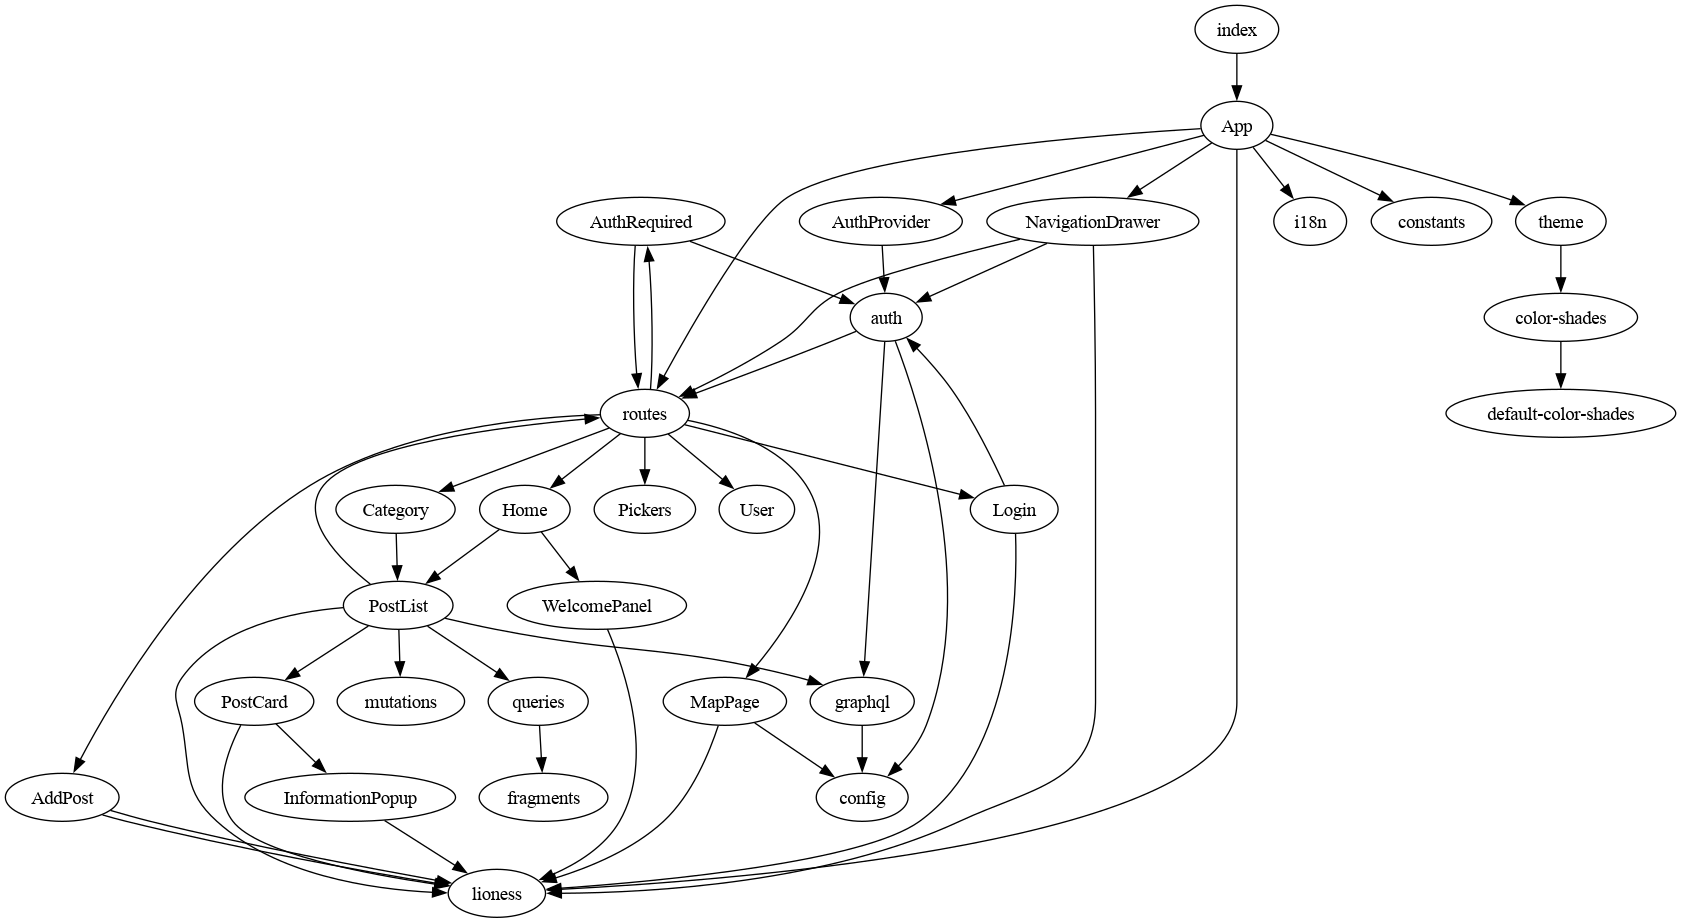
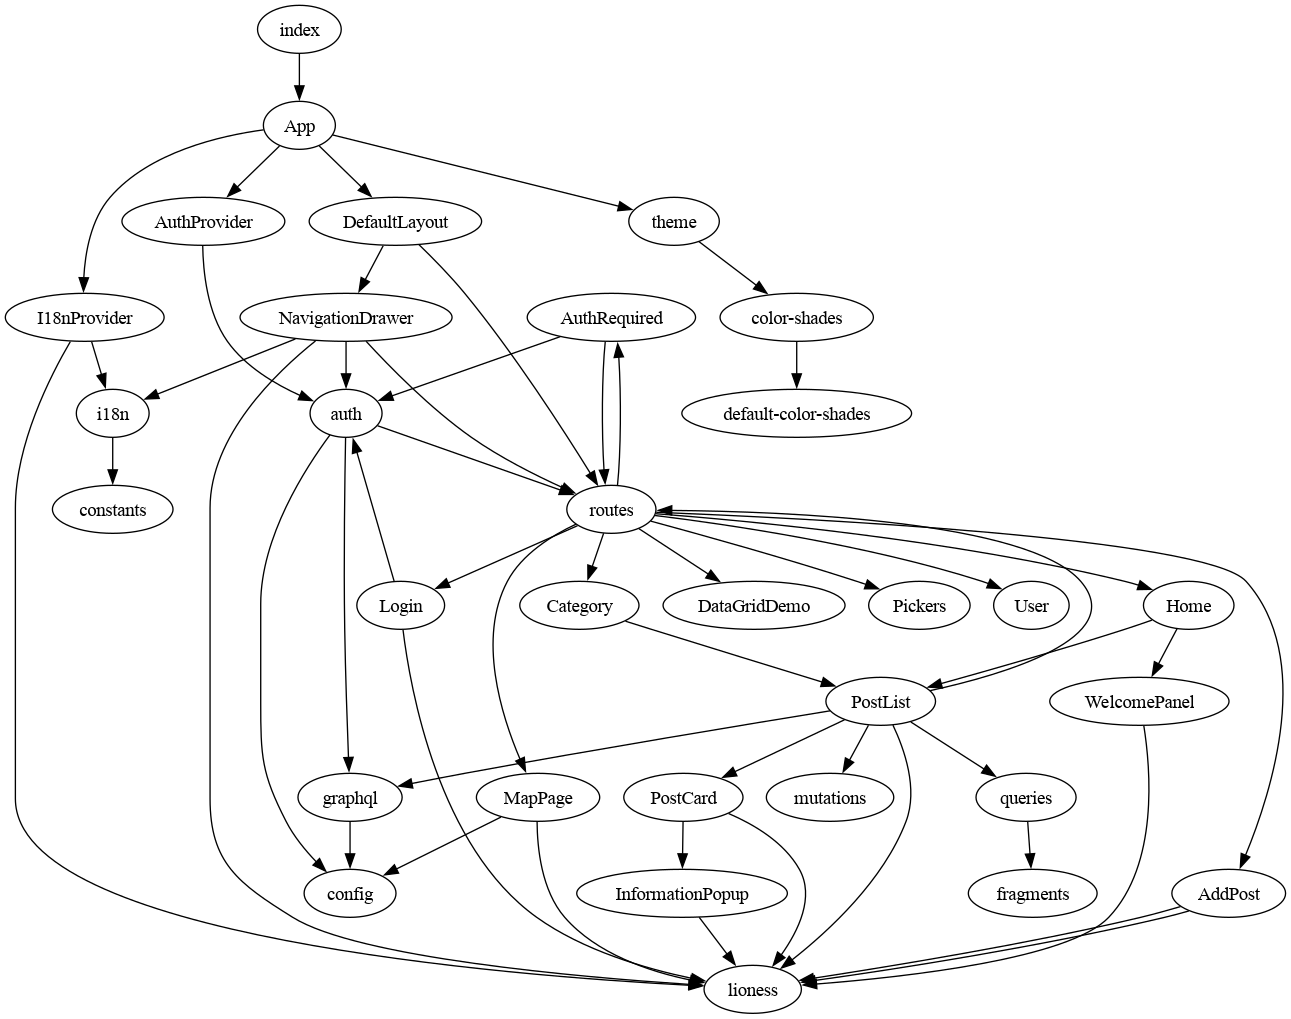
language switching in toolbar

diff --git a/front/src/App.jsx b/front/src/App.jsx
@@ -1,54 +1,20 @@
-import { useState } from 'react'
-
-/* Router and routes */
-import { Routes, Route, BrowserRouter as Router } from 'react-router-dom'
-import useRoutes from '@src/routes.jsx'
-import { AuthProvider } from '@src/utils/AuthProvider'
-
-/* i18n */
-import { selectBestLanguage } from './utils/i18n'
-import { createNodeGettextAdapter, LionessProvider } from '@src/lioness'
-import { LANGUAGES, DEFAULT_LANGUAGE } from './constants'
-import translations from './translations.json'
-
-import NavigationDrawer from '@comp/layout/NavigationDrawer'
-import { Box } from '@mui/material'
-
-// Theming
+import { I18nProvider } from '@src/utils/I18nProvider'
 import { ThemeProvider } from '@mui/material/styles'
-import theme from '@src/theme.js'
+import theme from '@src/theme'
+import { AuthProvider } from '@src/utils/AuthProvider'
+import { BrowserRouter as Router } from 'react-router-dom'
+import DefaultLayout from '@comp/layout/DefaultLayout'
 
 export default function App() {
-  const bestLanguage = selectBestLanguage(navigator.languages, Object.keys(LANGUAGES), DEFAULT_LANGUAGE)
-  const gettextAdapter = createNodeGettextAdapter()
-  const { routes } = useRoutes()
-  const [open, setOpen] = useState(false)
-  const toggleDrawer = (newState) => () => {
-    setOpen(newState)
-  }
-
   return (
-    <LionessProvider
-      adapter={gettextAdapter}
-      messages={translations}
-      locale={bestLanguage}
-    >
+    <I18nProvider>
       <ThemeProvider theme={theme}>
         <AuthProvider>
           <Router>
-            <div className="app">
-              <Box className="container">
-                <NavigationDrawer open={open} toggleDrawer={toggleDrawer} />
-                <Routes>
-                  {routes.map((route, index) => (
-                    <Route key={index} path={route.path} element={route.element} />
-                  ))}
-                </Routes>
-              </Box>
-            </div>
+            <DefaultLayout />
           </Router>
         </AuthProvider>
       </ThemeProvider>
-    </LionessProvider>
+    </I18nProvider>
   )
 }

diff --git a/front/src/components/layout/NavigationDrawer.jsx b/front/src/components/layout/NavigationDrawer.jsx
@@ -2,15 +2,17 @@ import { useState } from 'react'
 import { styled } from '@mui/material/styles'
 import {
   Box,
+  Button,
   ClickAwayListener,
-  Toolbar,
-  List,
   Divider,
   IconButton,
+  List,
   ListItem,
   ListItemButton,
   ListItemIcon,
   ListItemText,
+  Stack,
+  Toolbar,
   Typography,
 } from '@mui/material'
 import MuiDrawer from '@mui/material/Drawer'
@@ -23,6 +25,7 @@ import { NavLink } from 'react-router-dom'
 import { useTranslation } from '@src/lioness'
 import useRoutes from '@src/routes.jsx'
 import { useAuth, useAuthContext } from '@src/utils/auth'
+import { useI18n, languages } from '@src/utils/i18n'
 
 const drawerWidth = 240
 
@@ -83,10 +86,15 @@ const Drawer = styled(MuiDrawer, { shouldForwardProp: (prop) => prop !== 'open' 
 
 export default function NavigationDrawer() {
   const { t } = useTranslation()
-  const { routes } = useRoutes()
+  const { routes, UserRoute, LogoutRoute } = useRoutes()
   const { logout: logoutUser } = useAuthContext()
   const { logout } = useAuth()
+  const { locale: currentLocale, setLocale } = useI18n()
   const [open, setOpen] = useState(false)
+
+  const handleLocaleChange = (locale) => {
+    setLocale(locale)
+  }
 
   const handleDrawerOpen = () => {
     setOpen(true)
@@ -123,10 +131,20 @@ export default function NavigationDrawer() {
       <Toolbar>
         <img src={app_logo} className="app-logo" alt="logo" />
         <Typography variant="h6" component="div" sx={{ flexGrow: 1 }} />
-        <div>
+        <Stack direction="row">
+          {Object.entries(languages).map(([locale, title]) => (
+            <Button
+              key={locale}
+              variant={locale == currentLocale ? 'contained' : 'text'}
+              title={title}
+              onClick={() => handleLocaleChange(locale)}
+            >
+              {locale}
+            </Button>
+          ))}
           <IconButton
             component={NavLink}
-            to="/user"
+            to={UserRoute.path}
             size="large"
             aria-label="account of current user"
             aria-controls="menu-appbar"
@@ -135,7 +153,7 @@ export default function NavigationDrawer() {
           >
             <AccountCircle />
           </IconButton>
-        </div>
+        </Stack>
       </Toolbar>
     </AppBar>
   )
@@ -144,7 +162,7 @@ export default function NavigationDrawer() {
     <List sx={{ height: '100%' }}>
       {routes.map((route, index) => {
         if (route.isNav) {
-          if (route.path != '/logout') {
+          if (route != LogoutRoute) {
             return (
               <ListItem key={index} className="app-menu-item" disablePadding>
                 <ListItemButton component={NavLink} to={route.path} onClick={handleDrawerClose}>

diff --git a/front/src/components/layout/DefaultLayout.jsx b/front/src/components/layout/DefaultLayout.jsx
@@ -1,0 +1,25 @@
+import { useState } from 'react'
+import { Routes, Route } from 'react-router-dom'
+import useRoutes from '@src/routes'
+import NavigationDrawer from '@comp/layout/NavigationDrawer'
+import { Box } from '@mui/material'
+
+export default function DefaultLayout() {
+  const { routes } = useRoutes()
+  const [open, setOpen] = useState(false)
+  const toggleDrawer = (newState) => () => {
+    setOpen(newState)
+  }
+  return (
+    <div className="app">
+      <Box className="container">
+        <NavigationDrawer open={open} toggleDrawer={toggleDrawer} />
+        <Routes>
+          {routes.map((route, index) => (
+            <Route key={index} path={route.path} element={route.element} />
+          ))}
+        </Routes>
+      </Box>
+    </div>
+  )
+}

diff --git a/front/src/utils/I18nProvider.jsx b/front/src/utils/I18nProvider.jsx
@@ -1,0 +1,18 @@
+import { useState, useMemo } from 'react'
+import { createNodeGettextAdapter, LionessProvider } from '@src/lioness'
+import { I18nContext, bestLanguage, translations } from './i18n'
+
+export const I18nProvider = ({ children, defaultLocale = undefined }) => {
+  const initialeLocale = defaultLocale ?? bestLanguage
+  const [locale, setLocale] = useState(initialeLocale)
+  const adapter = useMemo(() => createNodeGettextAdapter(), [])
+  return (
+    <>
+      <I18nContext.Provider value={{ locale, setLocale, adapter, translations }}>
+        <LionessProvider adapter={adapter} messages={translations} locale={locale}>
+          {children}
+        </LionessProvider>
+      </I18nContext.Provider>
+    </>
+  )
+}

diff --git a/front/src/utils/i18n.js b/front/src/utils/i18n.js
@@ -1,3 +1,13 @@
+import { createContext, useContext } from 'react'
+import { LANGUAGES, DEFAULT_LANGUAGE } from '@src/constants'
+
+export * as translations from '@src/translations.json'
+
+export const languages = LANGUAGES
+export const defaultLanguage = DEFAULT_LANGUAGE
+export const I18nContext = createContext()
+export const useI18nContext = () => useContext(I18nContext)
+
 export function selectBestLanguage (browserLangs, supportedLangs, defaultLang) {
   if (browserLangs.length) {
     for (const lang of browserLangs) {
@@ -16,4 +26,10 @@ export function selectBestLanguage (browserLangs, supportedLangs, defaultLang) {
   } else {
     return defaultLang
   }
+}
+
+export const bestLanguage = selectBestLanguage(navigator.languages, Object.keys(languages), defaultLanguage)
+
+export function useI18n() {
+  return useI18nContext()
 }